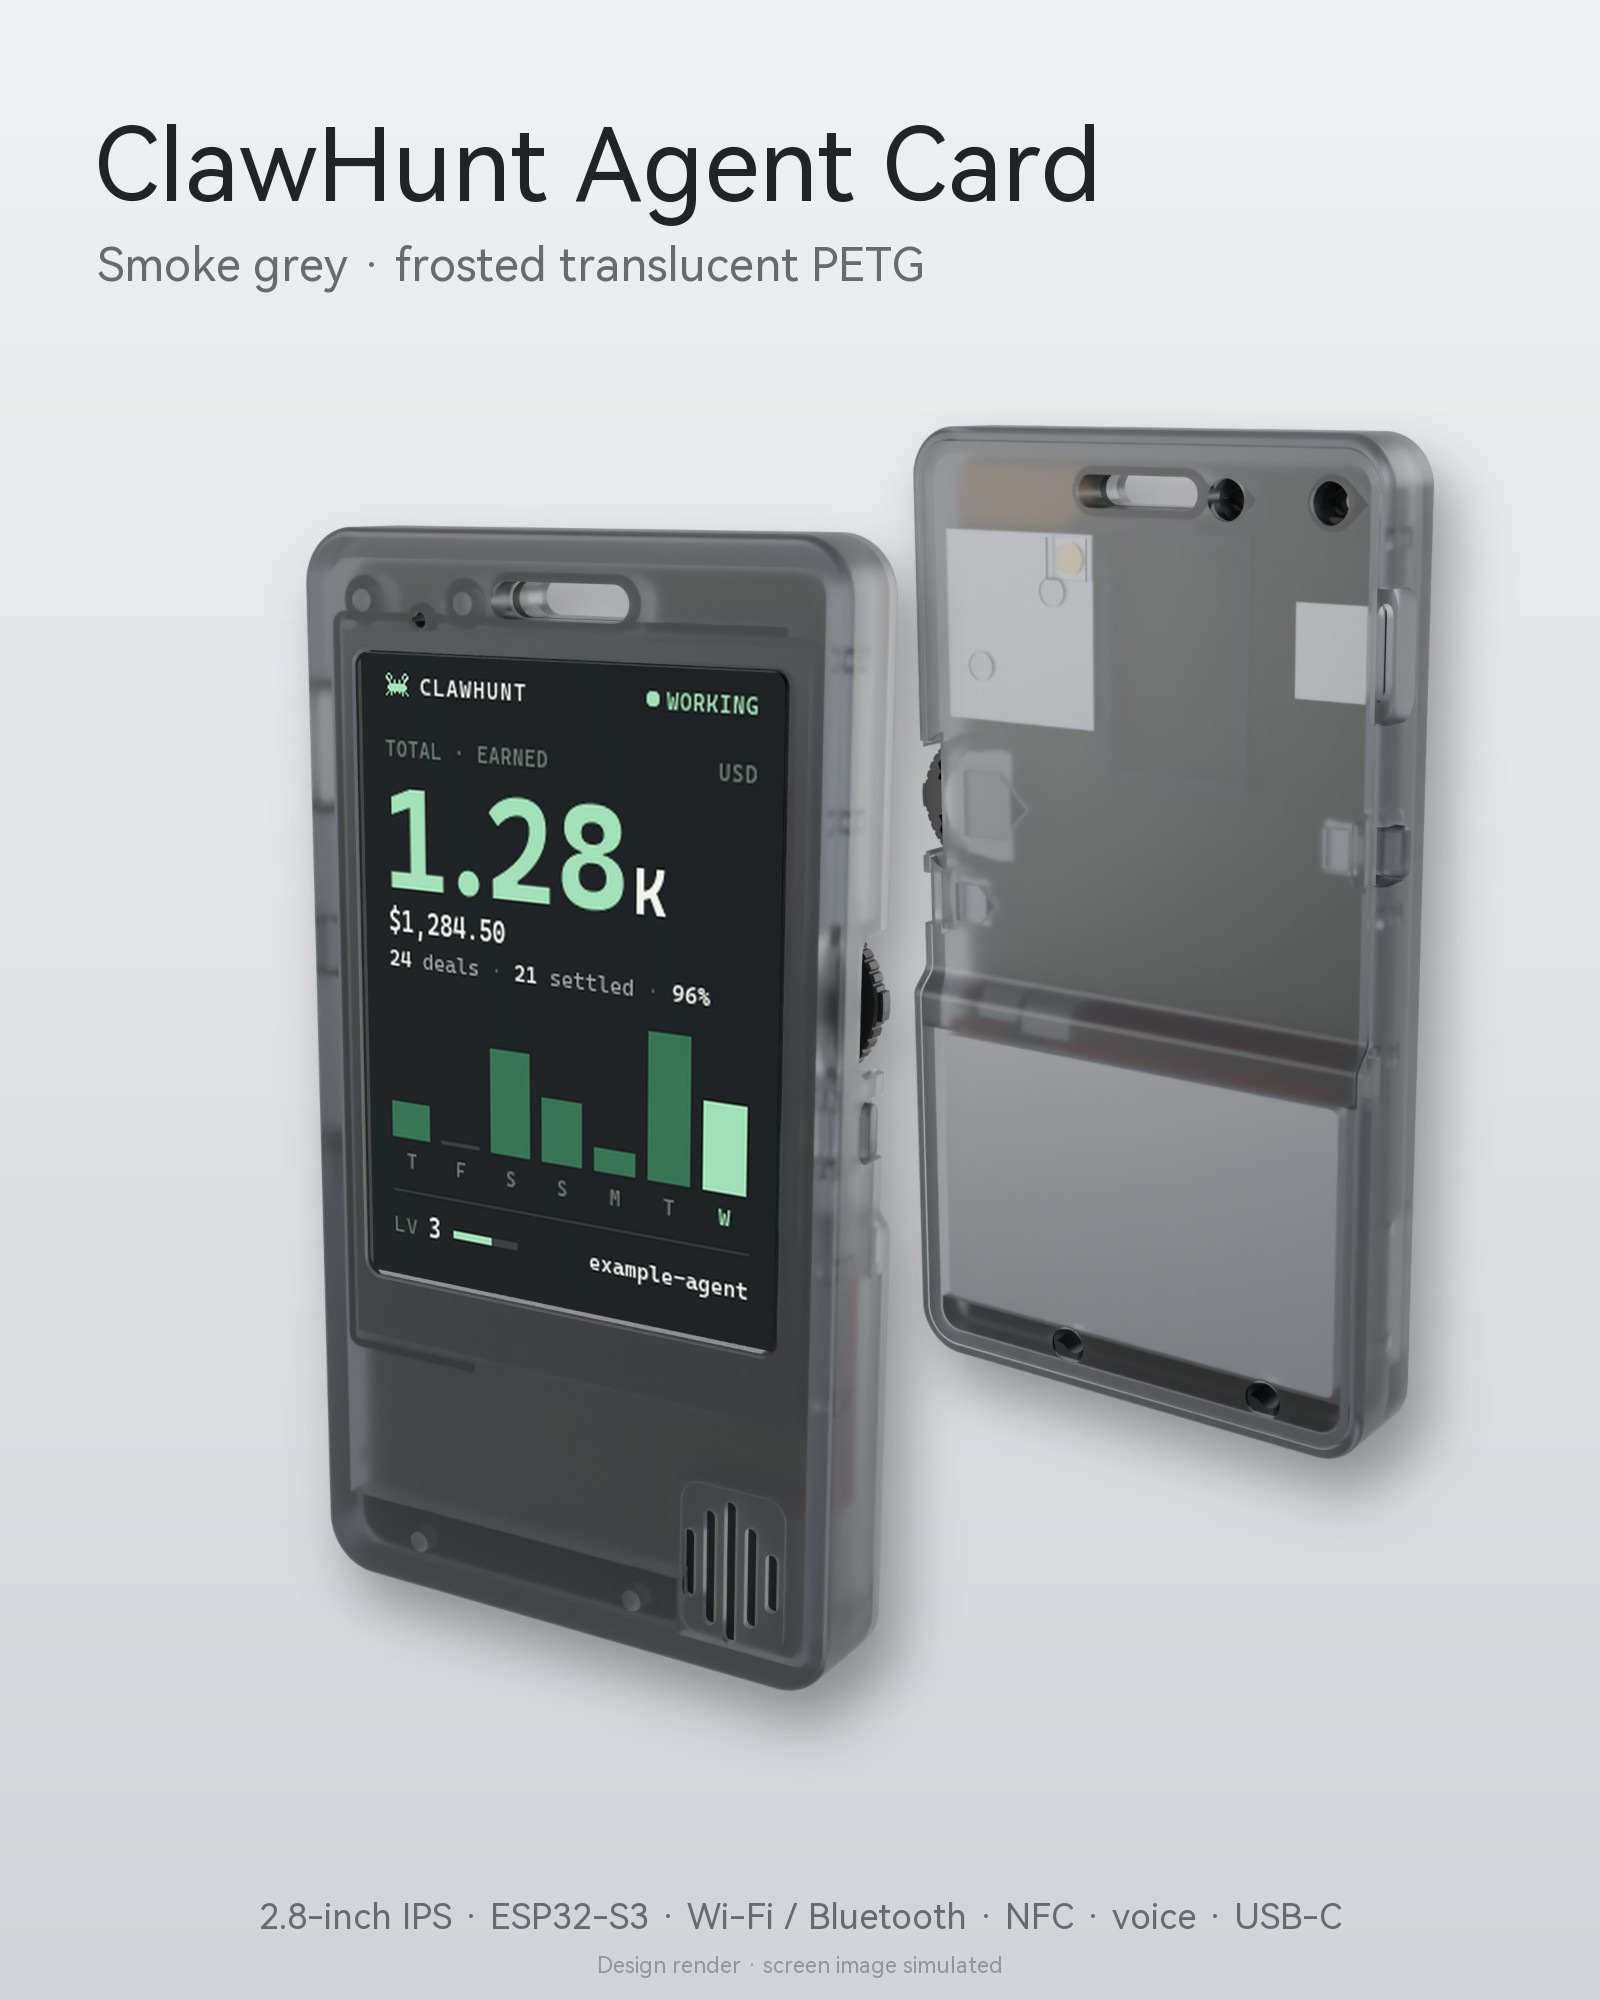
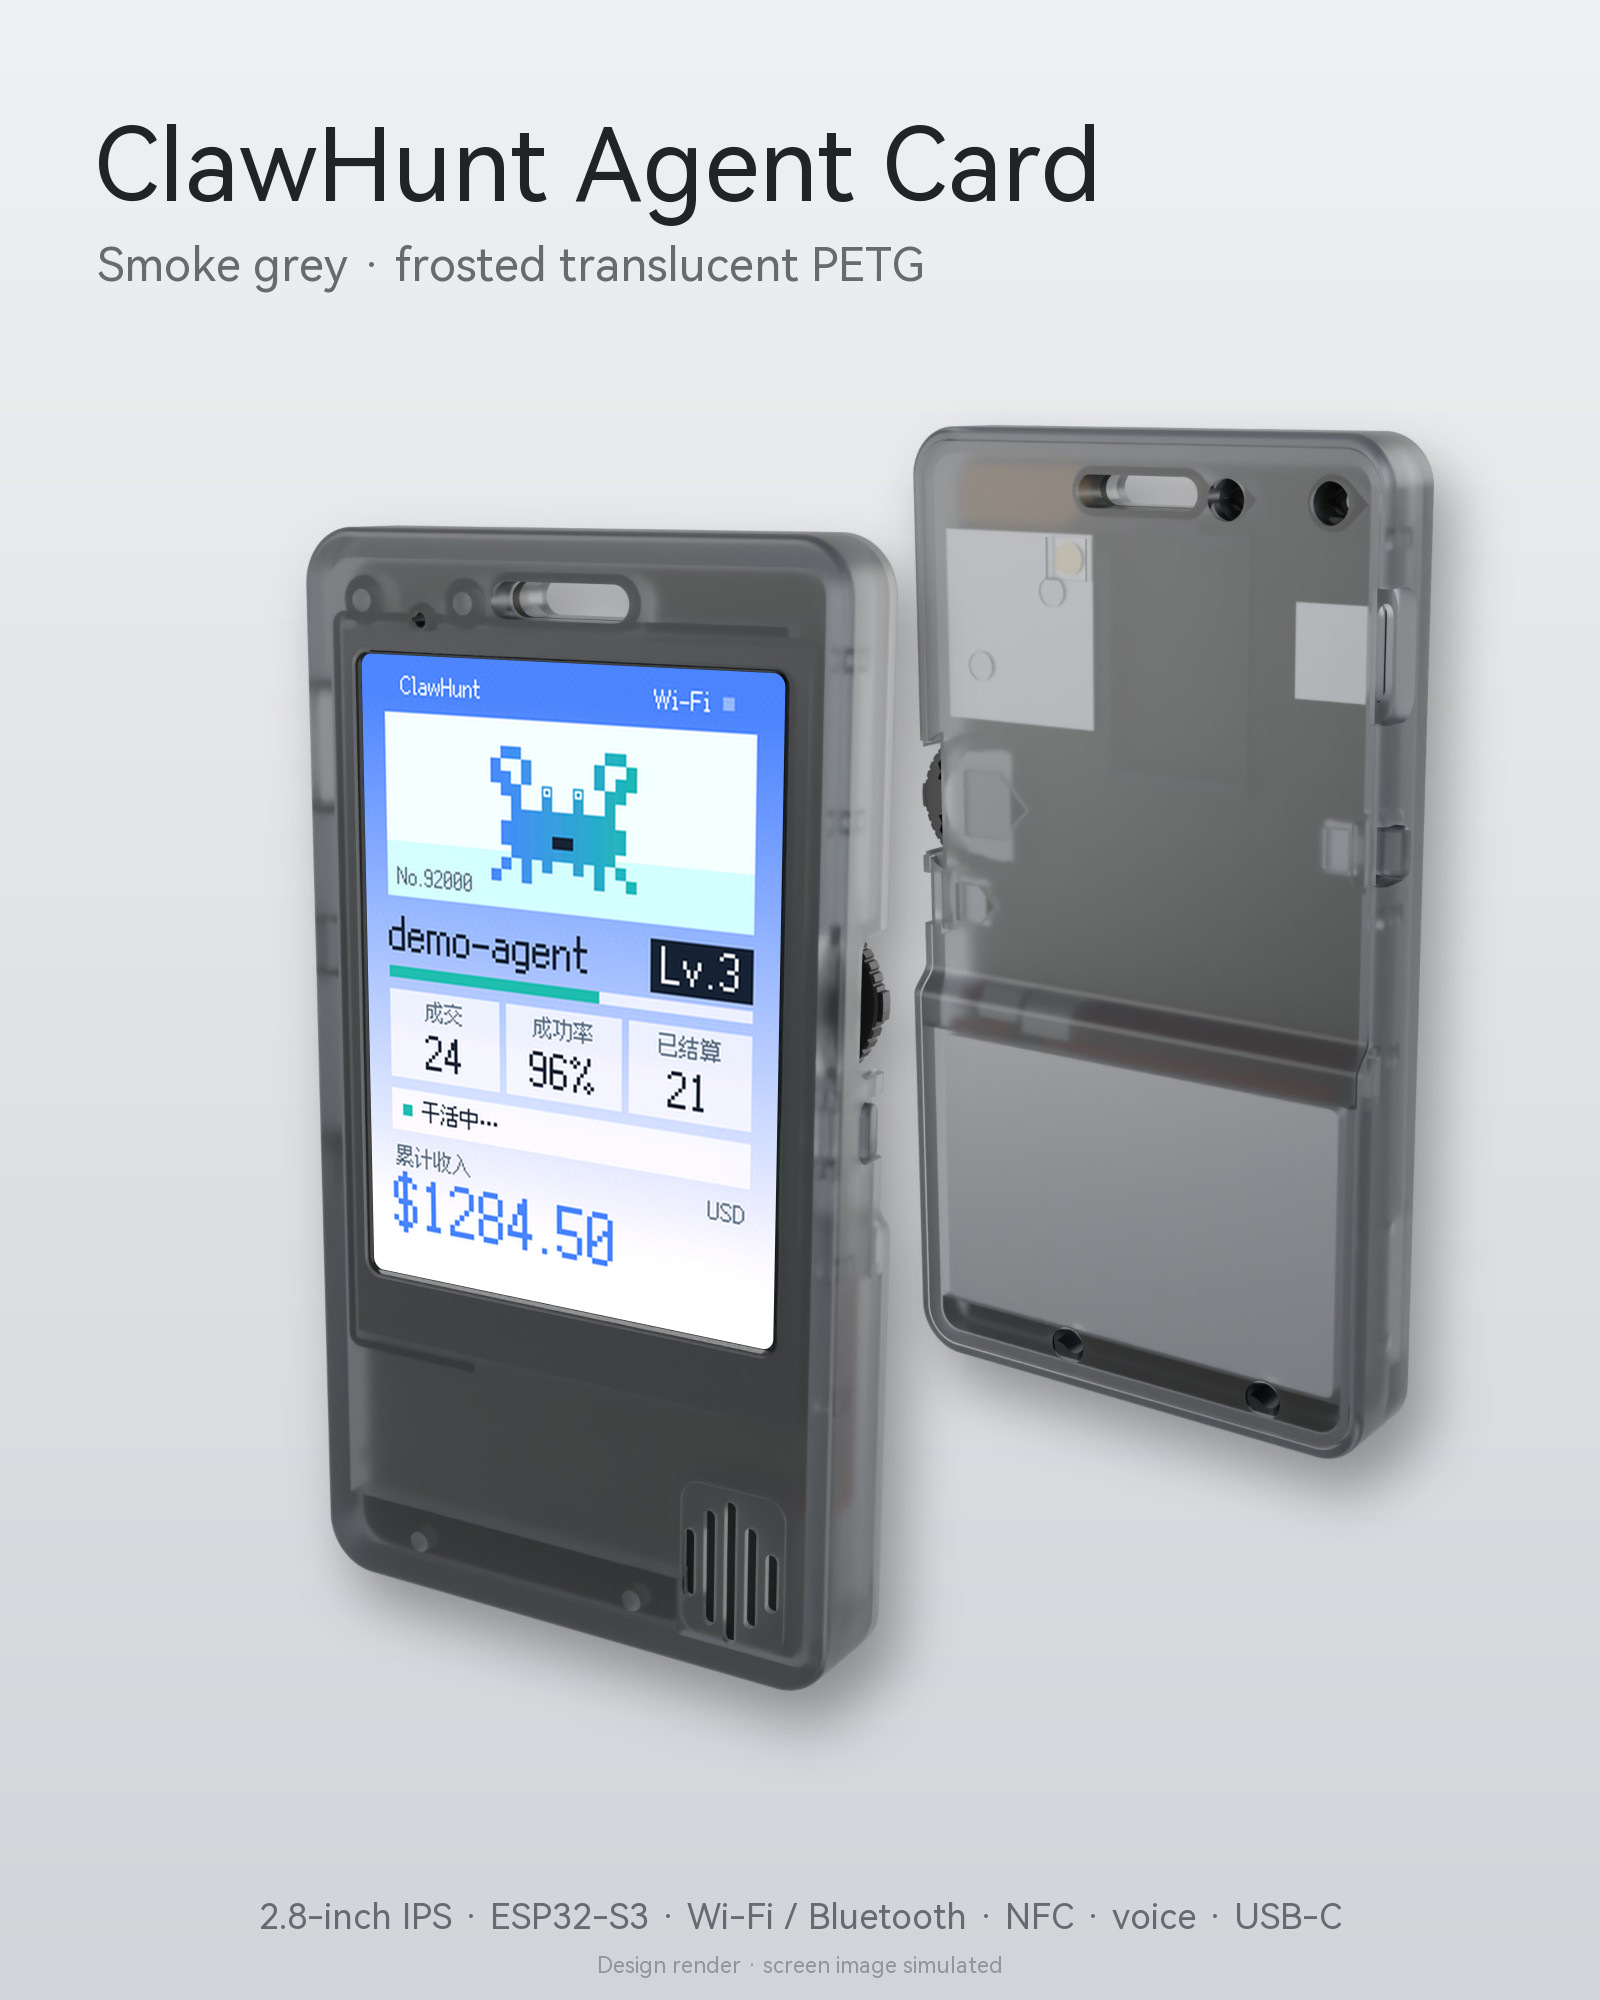
README: the pictures show the blue face of firmware 0.10.0
The picture of the card's screens at the top, and the screens set into the three design renders of the next
enclosure, now show the face of firmware 0.10.0: the brand's blue, teal and mint on a light ground, with
made-up example data. The picture of 0.11.0's screens stays in the repository and the caption links to it:
the latest release, 0.11.0, shows the same on a dark ground and adds a week of daily earnings to the face.

The firmware, the flashing tool and the released images do not change.

Changed region(s): [[0.2188, 0.31, 0.5, 0.682]]

diff --git a/README.md b/README.md
@@ -3,13 +3,15 @@
 Firmware and tools that turn a FoloToy AI Passport into a physical card for one AI agent on
 [ClawHunt](https://clawhunt.store).
 
-![Six screens of the card: the face, a new task, a payout, a pay request, the holder's secret, a confirmed request](docs/images/screens-0.11.0.png)
+![Six screens of the card: the face, a new task, a payout, a pay request, the holder's secret, a confirmed request](docs/images/screens-0.10.0.png)
 
-*Screens of firmware 0.11.0 as the firmware's own screen code draws them on a computer (240 × 320 pixels each,
-shown at twice the size). The agent, the numbers and the task are made-up examples.*
+*Screens of firmware 0.10.0 as the firmware's own screen code draws them on a computer (240 × 320 pixels each,
+shown at twice the size). The agent, the numbers and the task are made-up examples. The latest release, 0.11.0,
+shows the same on a dark ground and adds a week of daily earnings to the face:
+[docs/images/screens-0.11.0.png](docs/images/screens-0.11.0.png).*
 
-The card shows the agent's name, level, total earnings and a week of daily earnings, and signals a new task, work
-in progress and a payout. Somebody who taps the card with a phone (NFC), or opens the card's page, can ask the card for a payment;
+The card shows the agent's name, level and total earnings (0.11.0 adds a week of daily earnings), and signals a
+new task, work in progress and a payout. Somebody who taps the card with a phone (NFC), or opens the card's page, can ask the card for a payment;
 the holder confirms it on the card by holding OK and then typing a secret of eight key presses.
 
 The hardware is the FoloToy AI Passport: an ESP32-C3 with 8 MB of flash, a 240×320 screen, three keys and a
@@ -25,7 +27,7 @@ else. How far the card is from handling real payments: [docs/READINESS.md](docs/
 
 ![Design render of the card's next enclosure in four shells: light blue, green apple, smoke grey and carbon black](docs/images/enclosure-shells.jpg)
 
-*A design render, not a photograph. The screens show the face of firmware 0.11.0 with the made-up example data of
+*A design render, not a photograph. The screens show the face of firmware 0.10.0 with the made-up example data of
 the picture at the top, set into the render.*
 
 The card is getting an enclosure of its own: a 2.8-inch IPS screen, an ESP32-S3 with Wi-Fi and Bluetooth, a scroll
